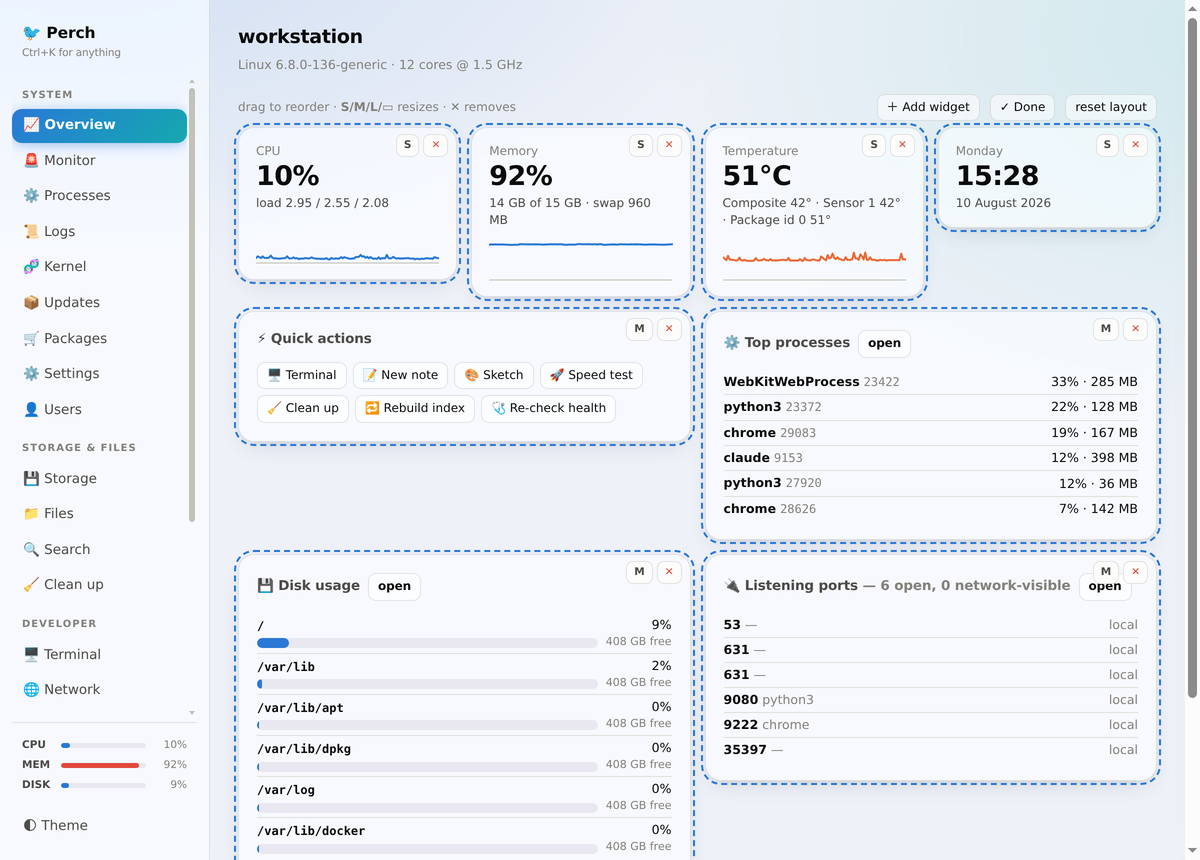
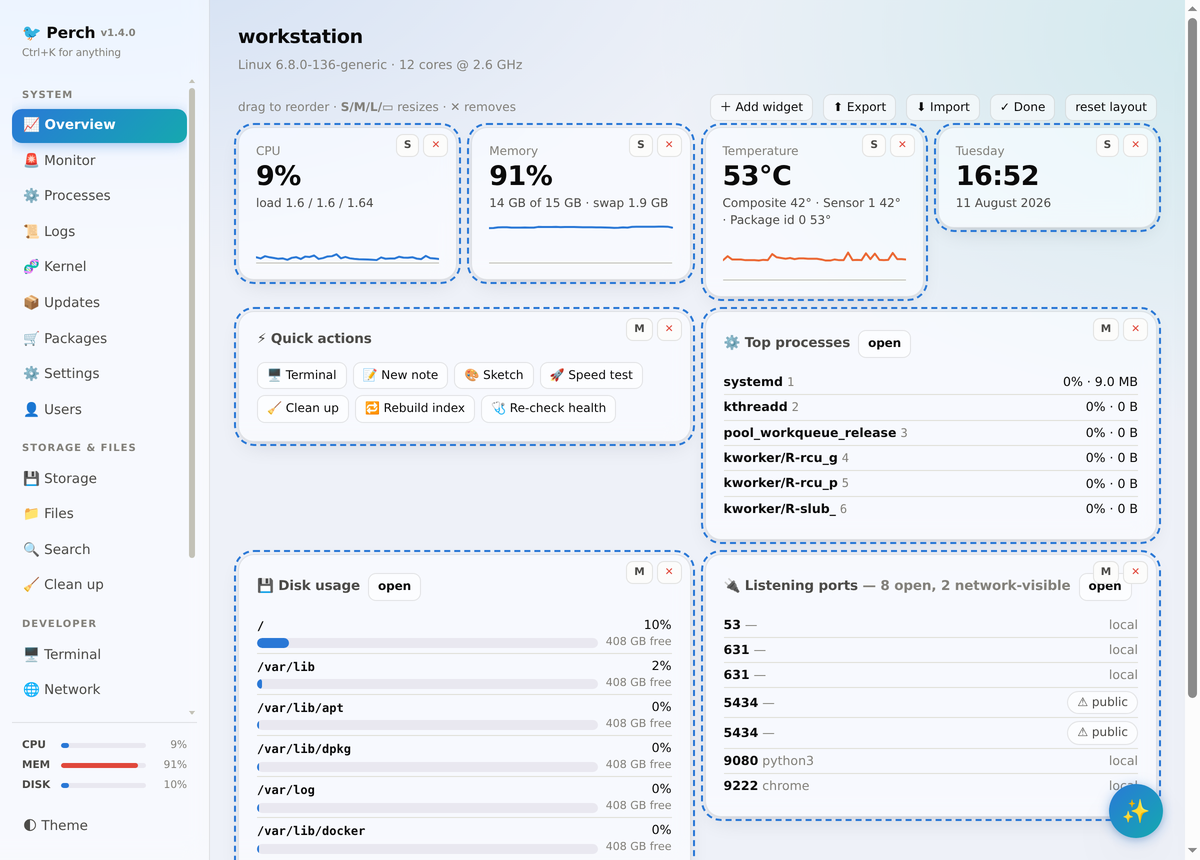
docs: refresh screenshots and contributor docs for 1.4.0
Every screenshot still showed the sidebar "Assistant / ✨ AI" entry that 1.4.0
removed, so all of them were retaken rather than patched around, and the tour
GIF was rebuilt from current frames for the same reason.

Adds two screenshots for the features that had none: the installed-software
list with per-package Update/Remove, and the assistant as a floating dock. The
Monitor shot now includes the custom-rules panel and the Network shot the
firewall panel.

CONTRIBUTING gains the tests/ layout, a Tests section explaining that the
frontend suite runs against a throwaway HOME and skips without Chrome, and a
note that config.py's version is what the running app reports — the thing that
let it drift to 1.0.0 unnoticed.

As before, machine identifiers are redacted in published images: hostname as
"workstation", login name as "you", LAN address as a placeholder. The assistant
shot shows an empty conversation rather than an invented answer.

diff --git a/README.md b/README.md
@@ -72,13 +72,13 @@ step, no cloud.
   port nothing is listening on, a process that vanished, or a folder that grew
   past a size limit.
 
-  ![Monitor — the alerting master switch with snooze buttons, above the threshold rules](docs/monitor-alerts.png)
+  ![Monitor — the alerting master switch with snooze buttons, the threshold rules, and custom rules watching a specific unit, port, process or folder](docs/monitor-alerts.png)
 
 - **Processes / Users / Logs / Kernel / Updates** — kill processes, inspect
   any process in a detail modal, browse the journal live, read kernel
   tunables, and see pending APT updates with a sidebar badge.
 
-![Tab tour — Overview, Monitor alerts & 24 h history, Storage analyzer, developer Tools, and desktop Settings](docs/tour.gif)
+![Tab tour — Overview, Monitor alerts, installed packages, Network ports & firewall, Storage, and Settings](docs/tour.gif)
 
 ### Manage storage & files
 - **Storage** — disk usage plus a folder-size analyzer to find what's eating
@@ -146,6 +146,8 @@ step, no cloud.
   CLI (default, no API key), the Anthropic API, any OpenAI-compatible
   endpoint, or a local Ollama model — configured in Settings.
 
+  ![Assistant — a floating button opens the chat as a dock over the current page](docs/assistant.png)
+
 ### Control the desktop
 - **Settings** — brightness, volume, power profile, blank/suspend timers,
   night light, Do Not Disturb, Bluetooth, Wi-Fi, GNOME theme, wallpaper (and
@@ -165,6 +167,9 @@ step, no cloud.
   sortable, an *only updatable* toggle, and per-package **Update** and
   **Remove**. A system password dialog (`pkexec`) appears for privileged
   actions and the live output streams into the job box.
+
+  ![Packages — everything installed, with version, size, description and per-package Update and Remove](docs/packages.png)
+
 - **About & self-update** — Settings shows the running version (also next to
   the name in the sidebar), how this copy was installed, where it lives and
   which directories it uses. **Check for updates** asks GitHub for the newest

diff --git a/CONTRIBUTING.md b/CONTRIBUTING.md
@@ -7,9 +7,13 @@ Thanks for your interest! Perch is a small, dependency-light project.
 ```
 src/perch/
   server.py     backend: HTTP server, collectors, dev tooling, routing
-  config.py     static metadata (name, version, default port)
+  config.py     static metadata (name, version, default port) — the version
+                the running app reports, so keep it in step with setup.cfg
   desktop.py    native GTK/WebKit window (with browser fallback)
   web/          frontend: index.html + static/{styles.css, app.js}
+tests/
+  test_perch.py     unit + HTTP smoke tests (stdlib unittest only)
+  frontend/         headless-Chrome smoke tests driving the real app
 docker/         Dockerfile + compose for headless host monitoring
 packaging/      .deb control files, .desktop, systemd unit, icon, build-deb.sh
 scripts/        per-user installer
@@ -24,6 +28,18 @@ is plain HTML/CSS/JS with no build step or framework.
 make run       # server at http://127.0.0.1:9080 (token printed at startup)
 make desktop   # native window
 ```
+
+## Tests
+
+```bash
+make test            # unit + HTTP smoke tests
+make test-frontend   # drives the real app in headless Chrome
+```
+
+The frontend suite boots a throwaway Perch on a temp `HOME` and drives it over
+the DevTools Protocol, so it never touches your real config. It skips itself
+when no Chrome is on `PATH`. Add a check there for anything that only breaks in
+the browser — `node --check` proves `app.js` parses and nothing more.
 
 ## Guidelines
 
